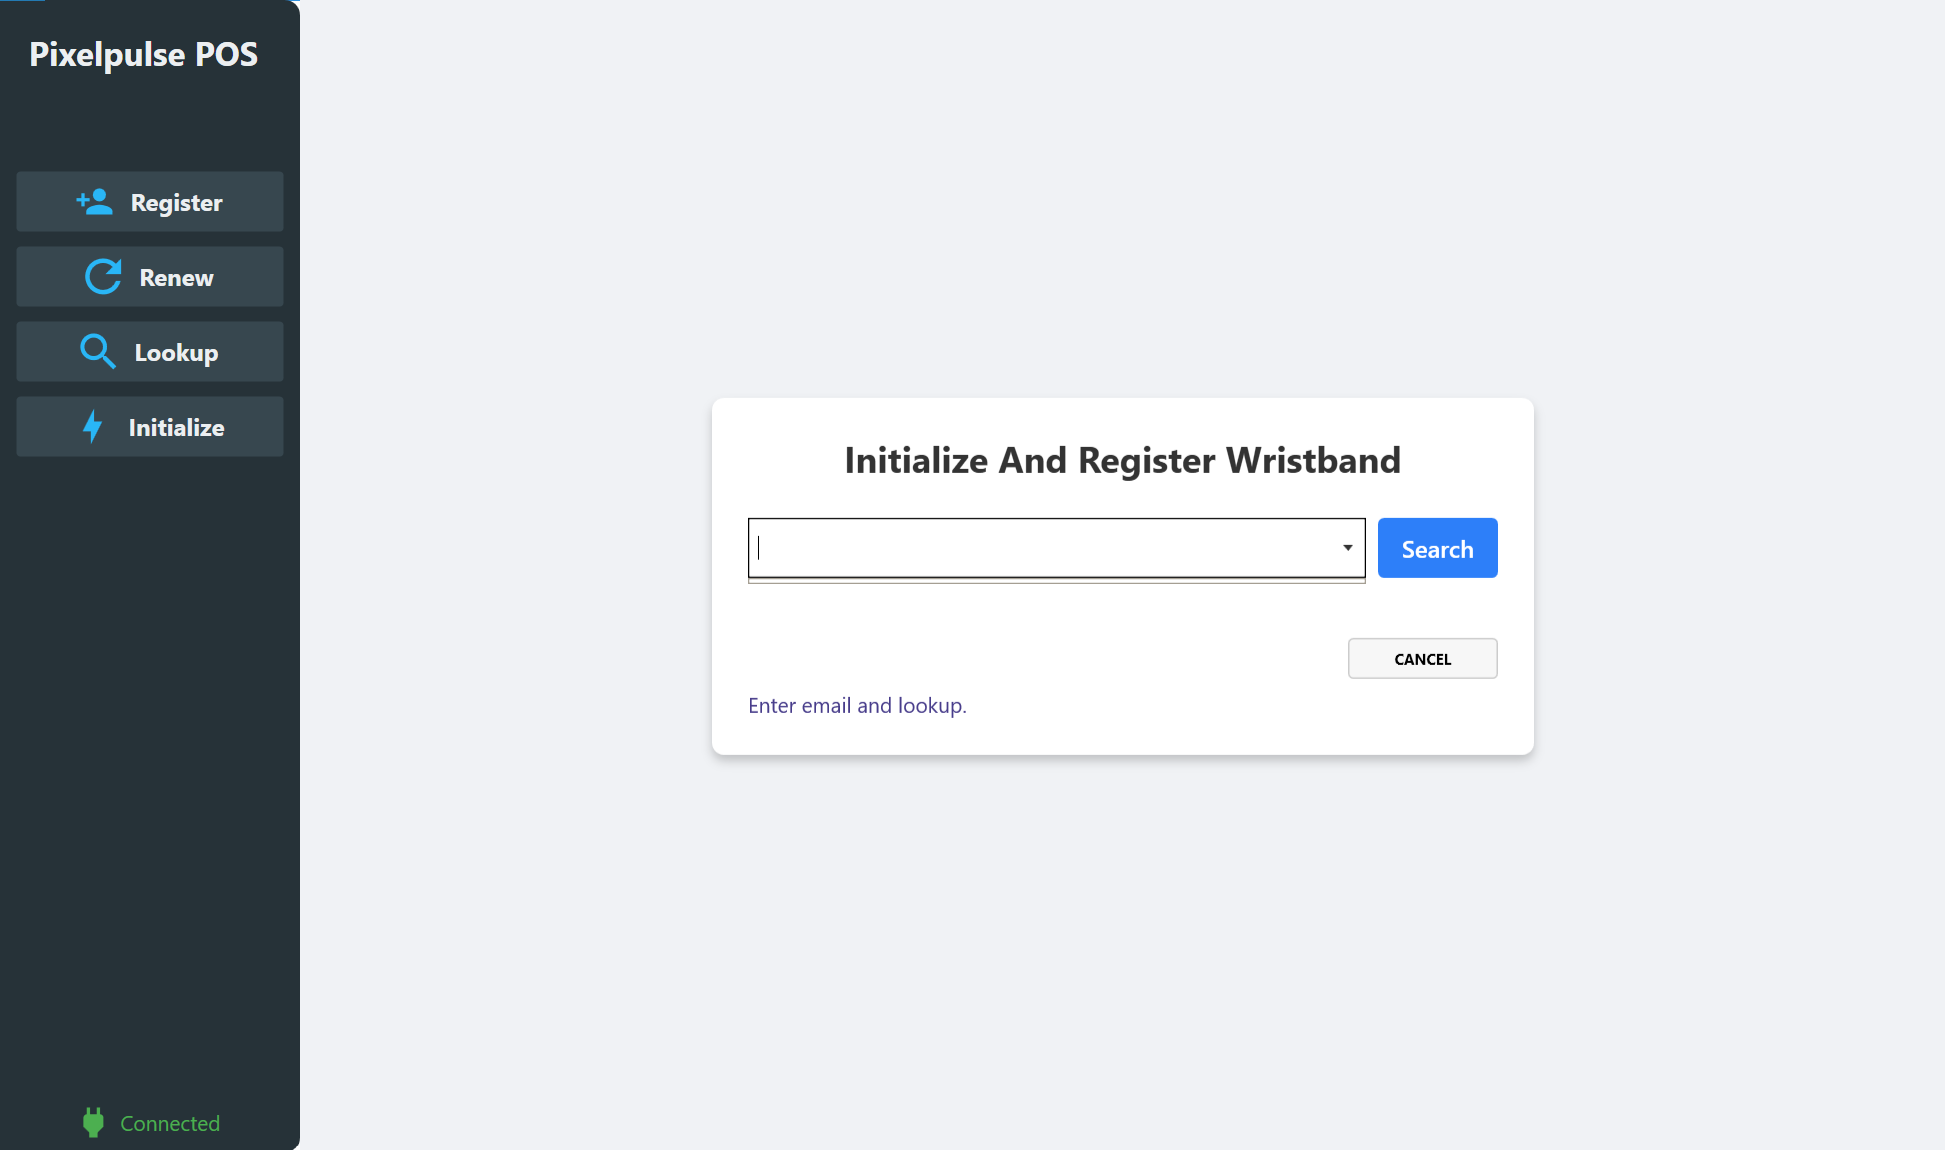
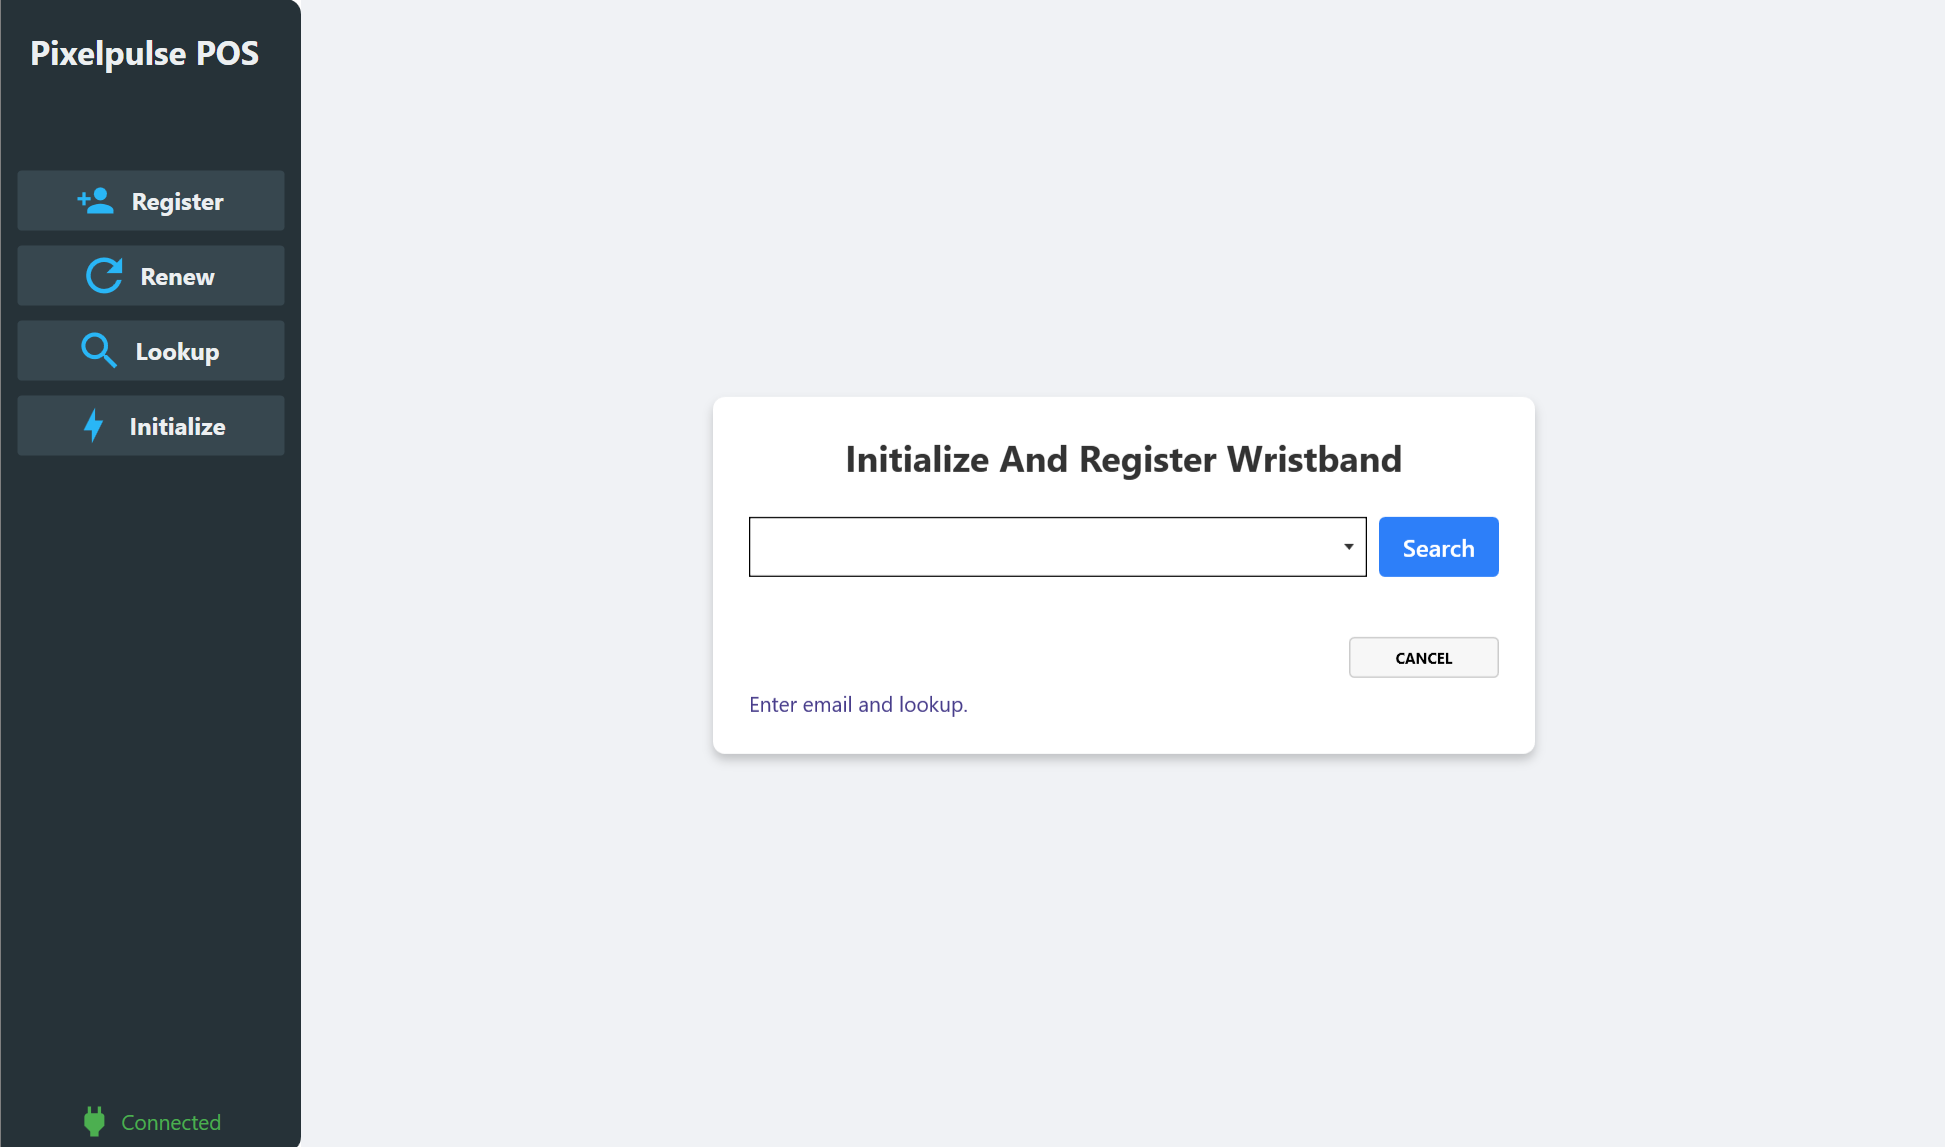
fix (pos docs): image sizing

diff --git a/admin/src/app/(protected)/documentation/software/pos/page.tsx b/admin/src/app/(protected)/documentation/software/pos/page.tsx
@@ -83,12 +83,12 @@ export default function Page() {
               <CardTitle className="text-base">POS Overview</CardTitle>
             </CardHeader>
             <CardContent>
-              <div className="relative aspect-[16/9] w-full overflow-hidden rounded-md border bg-[linear-gradient(90deg,rgba(0,0,0,0.04)_1px,transparent_1px),linear-gradient(rgba(0,0,0,0.04)_1px,transparent_1px)] bg-[size:20px_20px]">
+              <div className="relative aspect-[16/9] w-full overflow-hidden rounded-md border bg-muted">
                 <Image
                   src="/docs/pos/pos-overview.png"
                   alt="POS Overview"
                   fill
-                  className="object-cover opacity-90"
+                  className="object-contain"
                   priority
                 />
                 {/* Markers (aligned to your screenshot) */}
@@ -148,12 +148,12 @@ export default function Page() {
               </CardDescription>
             </CardHeader>
             <CardContent>
-              <div className="relative aspect-[16/9] w-full overflow-hidden rounded-md border bg-[linear-gradient(90deg,rgba(0,0,0,0.04)_1px,transparent_1px),linear-gradient(rgba(0,0,0,0.04)_1px,transparent_1px)] bg-[size:20px_20px]">
+              <div className="relative aspect-[16/9] w-full overflow-hidden rounded-md border bg-muted">
                 <Image
                   src="/docs/pos/pos-lookup.png"
                   alt="Lookup page"
                   fill
-                  className="object-cover"
+                  className="object-contain"
                   priority
                 />
                 {/* Markers aligned to your screenshot */}
